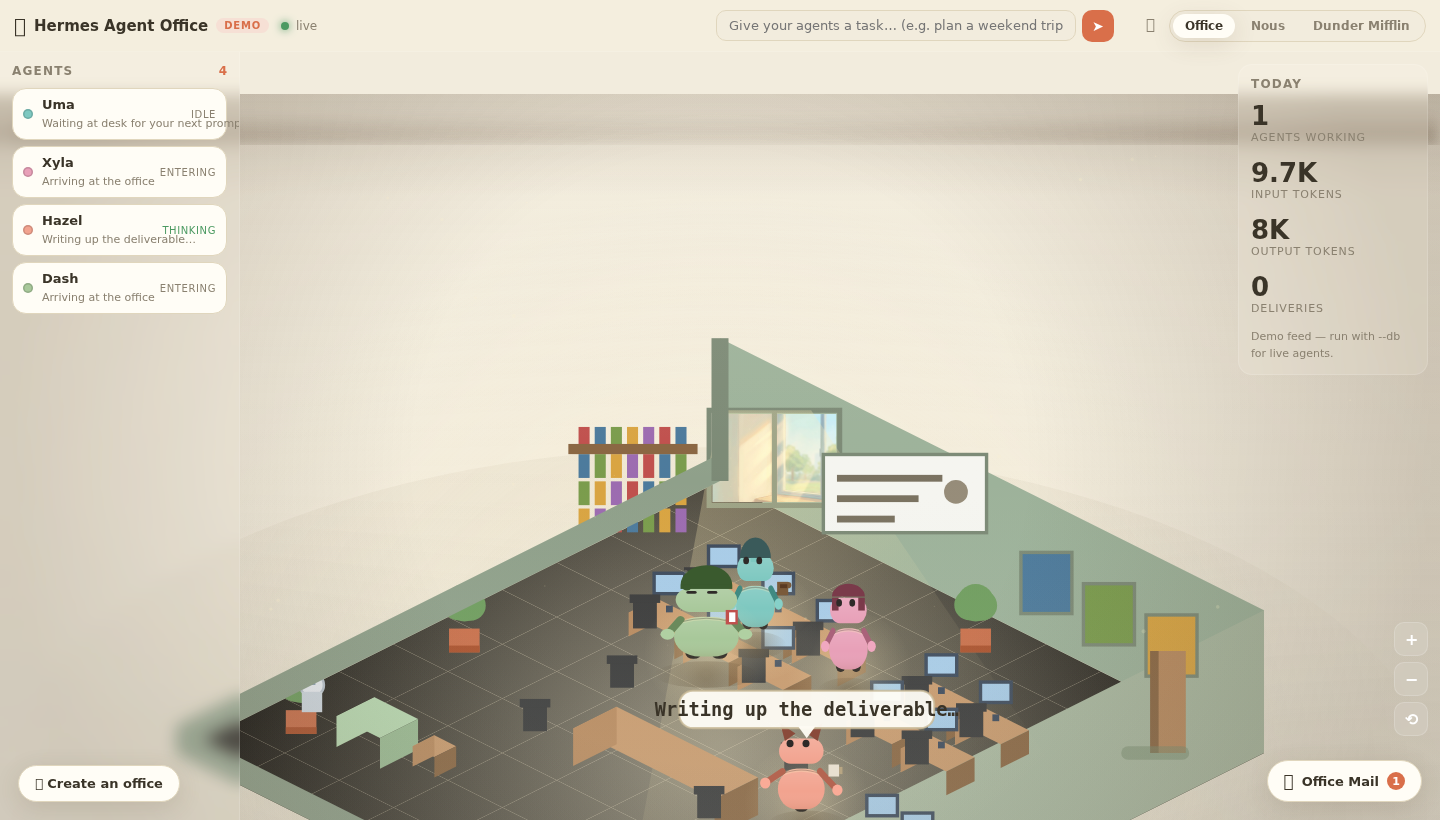
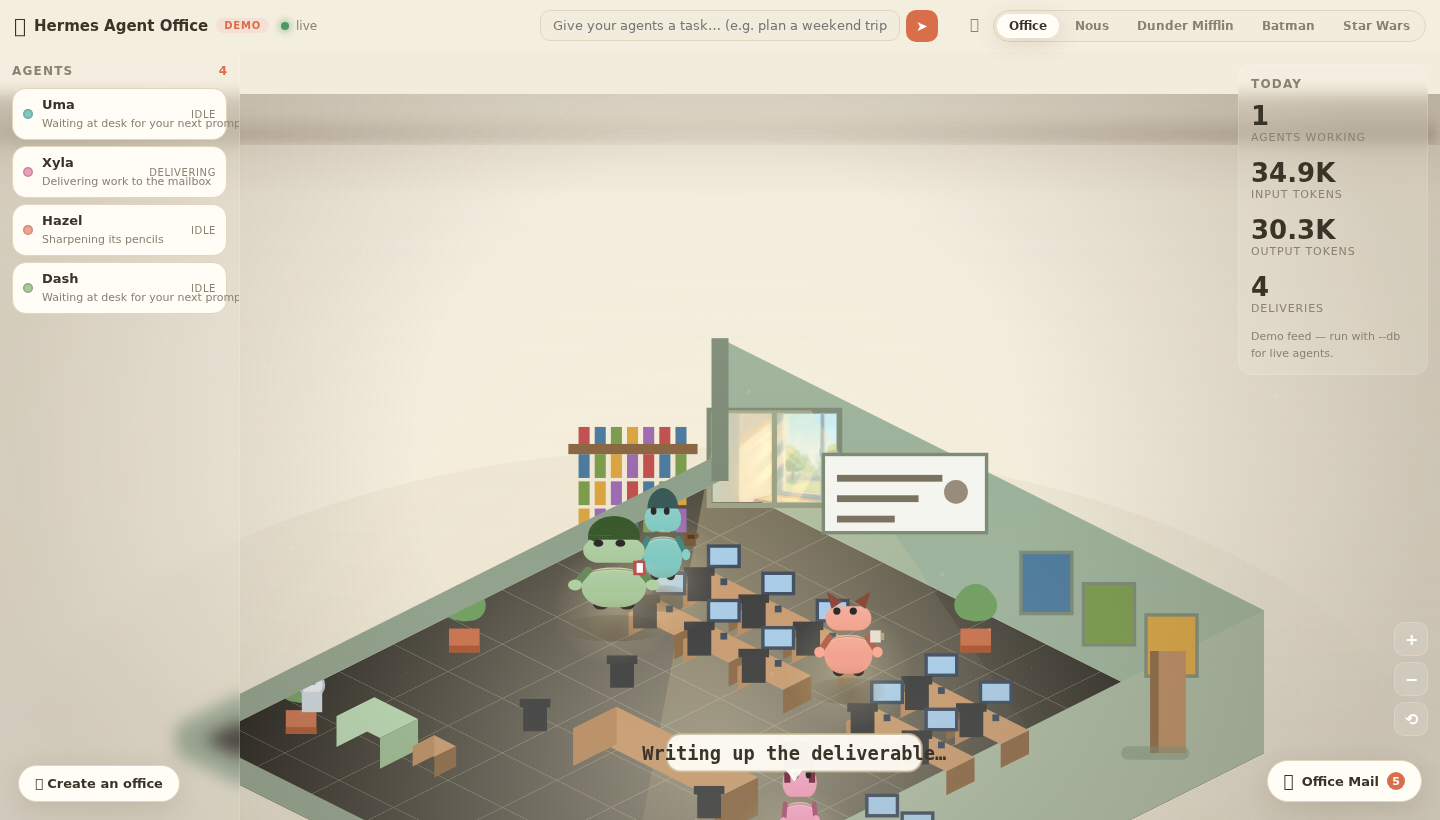
fix: built-in Batman/Star Wars themes (backdrops, casts, restaff rename-in-place, dark-hue lift, stronger halos), theme switch no longer wipes roster, mobile scale + camera, fresh 5-theme screenshots

diff --git a/web/app.js b/web/app.js
@@ -10,6 +10,7 @@
 const THEMES = {
   office: {
     name: 'office', brand: '🏢', renderer: 'office', franchiseId: 'office',
+    agentNames: ['Uma', 'Xyla', 'Hazel', 'Dash', 'Pixel', 'Coco', 'Gizmo', 'Yara'],
     ui: { accent: '#d96f4a' },
     floor: { base: '#e8dcc3', alt: '#e1d3b6', grid: 'rgba(120,100,60,0.10)' },
     wall: { back: '#a9b8a0', side: '#9db29a', base: '#8fa08a', frame: '#7c8a76' },
@@ -37,6 +38,7 @@ const THEMES = {
 
   nous: {
     name: 'nous', brand: '◈', renderer: 'nous', franchiseId: 'office',
+    agentNames: ['Uma', 'Xyla', 'Hazel', 'Dash', 'Pixel', 'Coco', 'Gizmo', 'Yara'],
     ui: { accent: '#4d7cf6' },
     floor: { base: '#0d0d15', alt: '#10101a', grid: 'rgba(77,124,246,0.28)' },
     wall: { back: '#13131e', side: '#101019', base: '#1a1a28', frame: '#2a2a42' },
@@ -64,7 +66,9 @@ const THEMES = {
 
   dunder: {
     name: 'dunder', brand: '📎', renderer: 'dunder', franchiseId: 'office',
+    agentNames: ['Michael', 'Dwight', 'Jim', 'Pam', 'Angela', 'Kevin', 'Stanley', 'Phyllis'],
     ui: { accent: '#c07c2b' },
+
     floor: { base: '#8b93a8', alt: '#878fa4', grid: 'rgba(60,60,80,0.14)' },
     wall: { back: '#d9c9a8', side: '#d3c2a0', base: '#b8a683', frame: '#a59370' },
     props: {
@@ -88,6 +92,65 @@ const THEMES = {
     ],
     desks: [[3.2,3.2],[4.2,3.2],[5.2,3.2],[3.2,4.2],[4.2,4.2],[5.2,4.2],[6.0,7.8],[7.0,7.8],[6.0,8.6],[7.0,8.6]],
     plants: [[2.4,6.6],[6.2,0.8],[0.8,2.6],[7.6,8.8]],
+  },
+
+  batman: {
+    name: 'batman', brand: '🦇', renderer: 'office', franchiseId: 'batman',
+    agentNames: ['Batman', 'Robin', 'Catwoman', 'Joker', 'Bane', 'Nightwing', 'Batgirl', 'Alfred'],
+    ui: { accent: '#8a6fd8' },
+    backdrop: '/assets/batman-backdrop.png',
+    floor: { base: '#3a3a46', alt: '#32323e', grid: 'rgba(160,140,255,0.12)' },
+    wall: { back: '#2e2a38', side: '#3a3446', base: '#221e2c', frame: '#4a3a5a' },
+    props: {
+      wood: '#5a4a6a', woodDark: '#3a3046', woodTop: '#6a5a7a',
+      monitor: '#1e2230', monitorScreen: '#7a9ae8', monitorGlow: 'rgba(122,154,232,0.35)',
+      chair: '#3a3446', plant: '#4a6a5a', shelf: '#4a3a5a',
+      pot: '#5a4a6a', plantPot: '#4a3a5a',
+      book: ['#8a6fd8', '#5a8ae8', '#e8c04a', '#e8737c'],
+    },
+    fx: { dark: true },
+    desks: [[2.5,2.5],[4,2.5],[5.5,2.5],[7,3.5],[3,4.5],[5,5.5],[7.5,6.5]],
+    plants: [[0.8,5.5],[5.5,0.8],[7.8,8.5],[0.8,8.5]],
+    stations: [
+      { id: 'entrance', label: 'Batcave Entrance', type: 'entrance', x: 0.5, y: 7.2 },
+      { id: 'mail', label: 'Mail', type: 'mail', x: 1.2, y: 8.0 },
+      { id: 'desk1', label: 'Wayne Desk', type: 'desk', x: 2.5, y: 2.5 },
+      { id: 'desk2', label: 'Robin Desk', type: 'desk', x: 4, y: 2.5 },
+      { id: 'desk3', label: 'Oracle Desk', type: 'desk', x: 5.5, y: 2.5 },
+      { id: 'desk4', label: 'Alfred Desk', type: 'desk', x: 7, y: 3.5 },
+      { id: 'desk5', label: 'Cave Desk', type: 'desk', x: 3, y: 4.5 },
+      { id: 'desk6', label: 'Lab Desk', type: 'desk', x: 5, y: 5.5 },
+      { id: 'desk7', label: 'Ops Desk', type: 'desk', x: 7.5, y: 6.5 },
+    ],
+  },
+  starwars: {
+    name: 'starwars', brand: '🚀', renderer: 'office', franchiseId: 'starwars',
+    agentNames: ['Luke', 'Leia', 'Han', 'Chewbacca', 'R2-D2', 'C-3PO', 'Obi-Wan', 'Yoda'],
+    ui: { accent: '#e8c04a' },
+    backdrop: '/assets/starwars-backdrop.png',
+    floor: { base: '#4a4a52', alt: '#42424a', grid: 'rgba(255,220,120,0.12)' },
+    wall: { back: '#3a3a42', side: '#44444e', base: '#2e2e36', frame: '#5a4a2e' },
+    props: {
+      wood: '#6a5a3a', woodDark: '#4a3e28', woodTop: '#7a6a4a',
+      monitor: '#1e2230', monitorScreen: '#e8c04a', monitorGlow: 'rgba(232,192,74,0.30)',
+      chair: '#3a3a44', plant: '#5a6a4a', shelf: '#4a3a2e',
+      pot: '#5a4a2e', plantPot: '#4a3a2e',
+      book: ['#e8c04a', '#e8737c', '#5a8ae8', '#7a9a5a'],
+    },
+    fx: { dark: true },
+    desks: [[2.5,2.5],[4,2.5],[5.5,2.5],[7,3.5],[3,4.5],[5,5.5],[7.5,6.5]],
+    plants: [[0.8,5.5],[5.5,0.8],[7.8,8.5],[0.8,8.5]],
+    stations: [
+      { id: 'entrance', label: 'Hangar Door', type: 'entrance', x: 0.5, y: 7.2 },
+      { id: 'mail', label: 'Mail', type: 'mail', x: 1.2, y: 8.0 },
+      { id: 'desk1', label: 'Pilot Station', type: 'desk', x: 2.5, y: 2.5 },
+      { id: 'desk2', label: 'Tech Station', type: 'desk', x: 4, y: 2.5 },
+      { id: 'desk3', label: 'Comm Station', type: 'desk', x: 5.5, y: 2.5 },
+      { id: 'desk4', label: 'Cargo Desk', type: 'desk', x: 7, y: 3.5 },
+      { id: 'desk5', label: 'Nav Desk', type: 'desk', x: 3, y: 4.5 },
+      { id: 'desk6', label: 'Droid Bay', type: 'desk', x: 5, y: 5.5 },
+      { id: 'desk7', label: 'Bridge Desk', type: 'desk', x: 7.5, y: 6.5 },
+    ],
   },
 };
 
@@ -173,8 +236,10 @@ function handleEvent(ev) {
       eng.bubble(a, 'Arrived', null, 3.5);
       break;
     case 'agent_leave':
-      eng.bubble(a, 'Heading out', null, 3);
-      setTimeout(() => eng.removeAgent(a.id), 1200);
+      if (a) {
+        eng.bubble(a, 'Heading out', null, 3);
+        setTimeout(() => eng.removeAgent(a.id), 1200);
+      }
       break;
     case 'thinking': {
       a.status = 'thinking';
@@ -258,10 +323,11 @@ function relookAgents() {
 }
 /* on dark themes, keep very dark character hues readable (no camouflage) */
 function liftDark(hex) {
+  // aggressively brighten very dark hues on dark themes so characters pop
   const n = parseInt((hex || '#888888').slice(1), 16);
   const lum = (((n >> 16) & 255) * 299 + ((n >> 8) & 255) * 587 + (n & 255) * 114) / 1000;
-  if (lum >= 92) return hex;
-  const f = 1 + (110 - lum) / lum;
+  if (lum >= 105) return hex;
+  const f = 1 + (135 - lum) / Math.max(lum, 30);
   const c = (v) => clamp(Math.round(v * f), 0, 255);
   return `rgb(${c((n >> 16) & 255)},${c((n >> 8) & 255)},${c(n & 255)})`;
 }
@@ -738,7 +804,17 @@ function applyTheme(name) {
   } else if (eng.renderer) {
     eng.renderer.customBackdrop = null;
   }
-  relookAgents();
+  // restaff: RENAME existing agents to the theme's cast (smooth, keeps the roster)
+  if (theme.agentNames && theme.agentNames.length) {
+    const pool = theme.agentNames.slice();
+    for (const a of eng.agents.values()) {
+      if (!pool.length) break;
+      const nn = pool.shift();
+      if (a.name !== nn) a.name = nn;
+    }
+    renderRoster();
+  }
+  relookAgents(); // applies cast looks + dark-theme hue lift AFTER the rename
   localStorage.setItem('office-theme', name);
   $('brand-mark').textContent = theme.brand || '🏢';
   for (const btn of document.querySelectorAll('.theme-btn')) {

diff --git a/web/style.css b/web/style.css
@@ -450,24 +450,66 @@ body[data-theme="office"] .brand-name { font-weight: 800; }
   /* single-column mobile layout: office fills everything */
   #layout {
     grid-template-columns: 1fr;
-    height: calc(100vh - 48px);
+    height: calc(100vh - 96px);
   }
   #roster, #metrics { display: none; }  /* hidden on mobile; agents visible in-canvas */
-  #stage-wrap { inset: 48px 0 0 0; }
+  #stage-wrap { inset: 96px 0 0 0; }
   #stage { width: 100%; height: 100%; }
-  .topbar { padding: 6px 8px; gap: 6px; }
+  /* topbar: 3 compact rows (brand | task | theme tabs) */
+  #topbar {
+    flex-wrap: wrap;
+    height: auto;
+    min-height: 96px;
+    padding: 6px 8px;
+    gap: 4px 8px;
+    align-content: flex-start;
+  }
+  .brand { flex: 0 0 auto; }
   .brand-name { display: none; }
   .brand-mark { font-size: 18px; }
-  .topbar-task { margin: 0 4px; }
-  .topbar-task input { width: 100%; font-size: 11px; padding: 5px 8px; }
-  .theme-switcher { display: none; }  /* theme tabs hidden on mobile */
+  #topbar .badge { font-size: 9px; padding: 1px 5px; }
+  .topbar-center { order: 2; flex: 1 1 auto; justify-content: flex-start; }
+  .topbar-center #live-label { font-size: 10px; white-space: nowrap; }
+  .topbar-right { order: 3; flex: 0 0 auto; }
+  .topbar-task {
+    order: 4;
+    flex: 1 1 100%;
+    margin: 2px 0 0;
+  }
+  .topbar-task input {
+    width: 100%;
+    font-size: 12px;
+    padding: 7px 10px;
+    border-radius: 10px;
+  }
+  /* theme tabs: always visible, horizontally scrollable */
+  .theme-switcher {
+    order: 5;
+    flex: 1 1 100%;
+    display: flex;
+    gap: 6px;
+    overflow-x: auto;
+    -webkit-overflow-scrolling: touch;
+    padding: 2px 0 4px;
+    scrollbar-width: none;
+  }
+  .theme-switcher::-webkit-scrollbar { display: none; }
+  .theme-btn {
+    flex: 0 0 auto;
+    font-size: 11px;
+    padding: 5px 12px;
+    white-space: nowrap;
+  }
   #mute-btn { font-size: 14px; }
+  /* zoom controls bigger + reachable */
+  .zoom-controls { right: 10px; bottom: 88px; }
+  .zoom-controls button { width: 42px; height: 42px; font-size: 20px; }
   /* welcome modal scales to mobile */
   .welcome-card { width: calc(100vw - 32px); padding: 18px; }
   .welcome-title { font-size: 16px; }
   .welcome-text { font-size: 12px; }
   /* offline banner fits */
-  .offline-banner { top: 52px; font-size: 10.5px; padding: 6px 10px; max-width: calc(100vw - 20px); }
+  .offline-banner { top: 100px; font-size: 10.5px; padding: 6px 10px; max-width: calc(100vw - 20px); }
   /* tour fits */
   .tour-card { width: calc(100vw - 32px); bottom: 16px; }
   /* bottom action buttons stay reachable */

diff --git a/web/office-renderer.js b/web/office-renderer.js
@@ -42,9 +42,11 @@ const OfficeRenderer = {
 
   resize(eng) {
     const fit = Math.min(eng.cssW / 640, eng.cssH / 380);
-    eng.scale = clamp(fit, 0.45, 1.7) * (eng.zoom || 1);
+    // mobile: much bigger scene so agents are prominent and the room fills the screen
+    const mfit = eng.cssW < 860 ? Math.min(eng.cssW / 250, eng.cssH / 470) : fit;
+    eng.scale = clamp(mfit, 0.45, 1.7) * (eng.zoom || 1);
     eng.ox = eng.cssW / 2;
-    eng.oy = eng.cssH / 2 + 24;
+    eng.oy = eng.cssW < 860 ? eng.cssH * 0.33 : eng.cssH / 2 + 24;
     this._buildStatic(eng);
   },
 
@@ -419,9 +421,10 @@ const OfficeRenderer = {
 
     /* warm spotlight halo behind the character — lifts it off dark floors
        and makes the cast the focal point (per the art-direction spec) */
+    const darkTheme = !!(eng.theme && eng.theme.fx && eng.theme.fx.dark);
     const halo = ctx.createRadialGradient(c.x, c.y - u * 6, u * 2, c.x, c.y - u * 6, u * 26);
-    halo.addColorStop(0, 'rgba(255,236,190,0.30)');
-    halo.addColorStop(0.5, 'rgba(255,236,190,0.12)');
+    halo.addColorStop(0, darkTheme ? 'rgba(255,236,190,0.45)' : 'rgba(255,236,190,0.30)');
+    halo.addColorStop(0.5, darkTheme ? 'rgba(255,236,190,0.20)' : 'rgba(255,236,190,0.12)');
     halo.addColorStop(1, 'rgba(255,236,190,0)');
     ctx.fillStyle = halo;
     ctx.beginPath();

diff --git a/web/nous-renderer.js b/web/nous-renderer.js
@@ -39,9 +39,10 @@ const NousRenderer = {
   },
 
   resize(eng) {
-    eng.scale = clamp(Math.min(eng.cssW / 900, eng.cssH / 640) * (eng.zoom || 1), 0.55, 1.4);
+    const mfit = eng.cssW < 860 ? Math.min(eng.cssW / 300, eng.cssH / 500) : Math.min(eng.cssW / 900, eng.cssH / 640);
+    eng.scale = clamp(mfit * (eng.zoom || 1), 0.55, 1.4);
     eng.ox = eng.cssW / 2;
-    eng.oy = eng.cssH * 0.44;
+    eng.oy = eng.cssW < 860 ? eng.cssH * 0.38 : eng.cssH * 0.44;
     this._buildStatic(eng);
   },
 

diff --git a/web/index.html b/web/index.html
@@ -38,6 +38,8 @@
       <button data-theme-name="office" class="theme-btn active">Office</button>
       <button data-theme-name="nous" class="theme-btn">Nous</button>
       <button data-theme-name="dunder" class="theme-btn">Dunder Mifflin</button>
+      <button data-theme-name="batman" class="theme-btn">Batman</button>
+      <button data-theme-name="starwars" class="theme-btn">Star Wars</button>
       </nav>
     </div>
   </header>

diff --git a/web/dunder-renderer.js b/web/dunder-renderer.js
@@ -36,7 +36,8 @@ const DunderRenderer = {
   },
 
   resize(eng) {
-    eng.scale = clamp(Math.min(eng.cssW / 1100, eng.cssH / 700) * (eng.zoom || 1), 0.55, 1.3);
+    const mfit = eng.cssW < 860 ? Math.min(eng.cssW / 340, eng.cssH / 520) : Math.min(eng.cssW / 1100, eng.cssH / 700);
+    eng.scale = clamp(mfit * (eng.zoom || 1), 0.55, 1.3);
     eng.ox = 0; eng.oy = 0;
     this._buildStatic(eng);
   },

diff --git a/web/engine.js b/web/engine.js
@@ -230,6 +230,7 @@ class OfficeEngine {
     const a = this.agents.get(id);
     if (!a) return;
     const ent = this.theme.entrance;
+    if (!ent) { this.agents.delete(id); return; }
     this.goTo(a, ent.x, ent.y + 0.5);
     a.leaving = true;
   }

diff --git a/office/demo.py b/office/demo.py
@@ -106,13 +106,8 @@ class DemoSource:
 
     def set_name_pool(self, names: List[str]) -> None:
         self._name_pool = [n for n in names if n]
-        # evict current agents so fresh ones spawn with the new names
-        for name in list(self._agent_state.keys()):
-            self._emit(type="agent_leave", agent=name,
-                       session=self._agent_state[name].get("session", ""),
-                       role=self._agent_state[name].get("role", ""),
-                       text="Reassigned to a new role")
-        self._agent_state.clear()
+        # Do NOT emit leaves/clear — the client renames agents in place on theme
+        # switch. Clearing here caused every renamed agent to be removed.
 
     def assign_task(self, text: str):
         """User-given task: broadcast, then run it end-to-end on one agent."""
